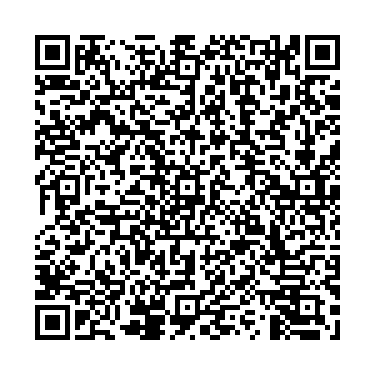
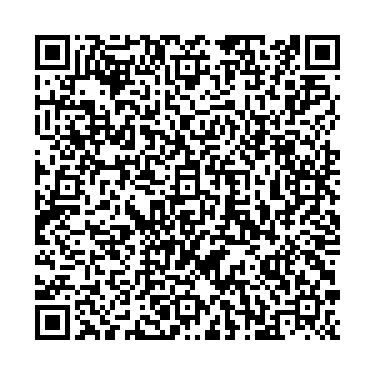
feat:

Changed region(s): [[0.088, 0.088, 0.9093, 0.9093]]

diff --git a/flows/cliente_nuevo/matricula.flow.js b/flows/cliente_nuevo/matricula.flow.js
@@ -13,10 +13,7 @@ module.exports = addKeyword(['4']).addAnswer(
 
     ], null, async(ctx,{flowDynamic, state}) => {
         const myState = state.getMyState();
-        const mensaje = `Hola,
-        Estoy ${myState.nombre}
-        interesado en el proceso de matrícula.
-        Mi edad es ${myState.edad}.`;
+        const mensaje = `Hola estoy interesado en el proceso de matrícula, mi nombre es ${myState.nombre} y mi edad es ${myState.edad}.`;
 
         // Codificar el mensaje para usarlo en el enlace de WhatsApp
         const enlaceWhatsApp = encodeURI(`https://wa.me/${TEL}?text=${mensaje}`);
